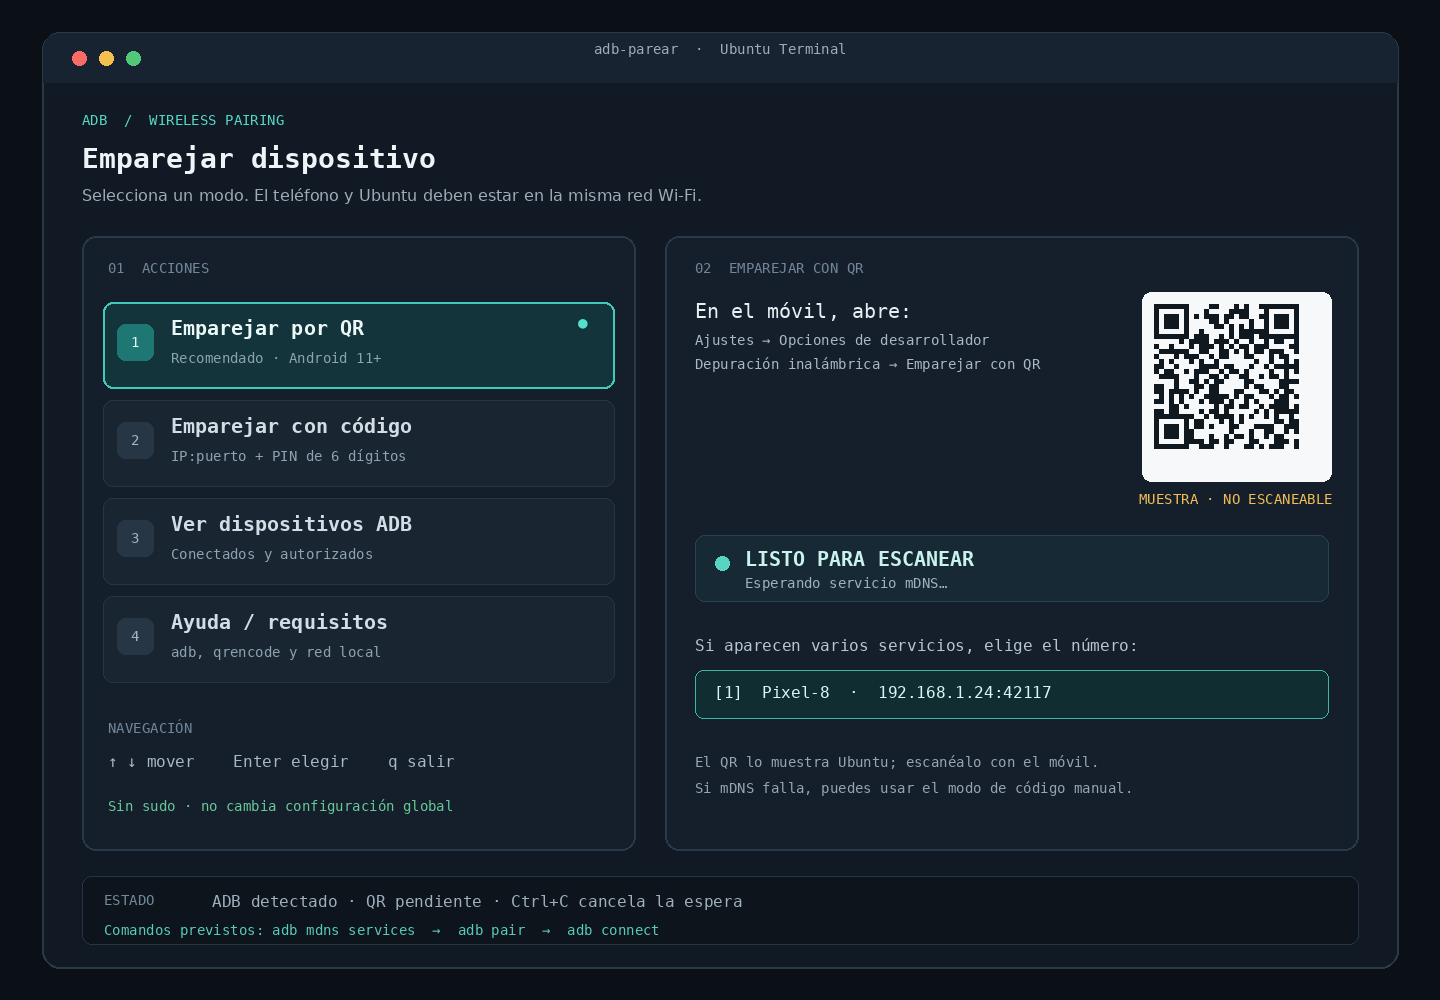
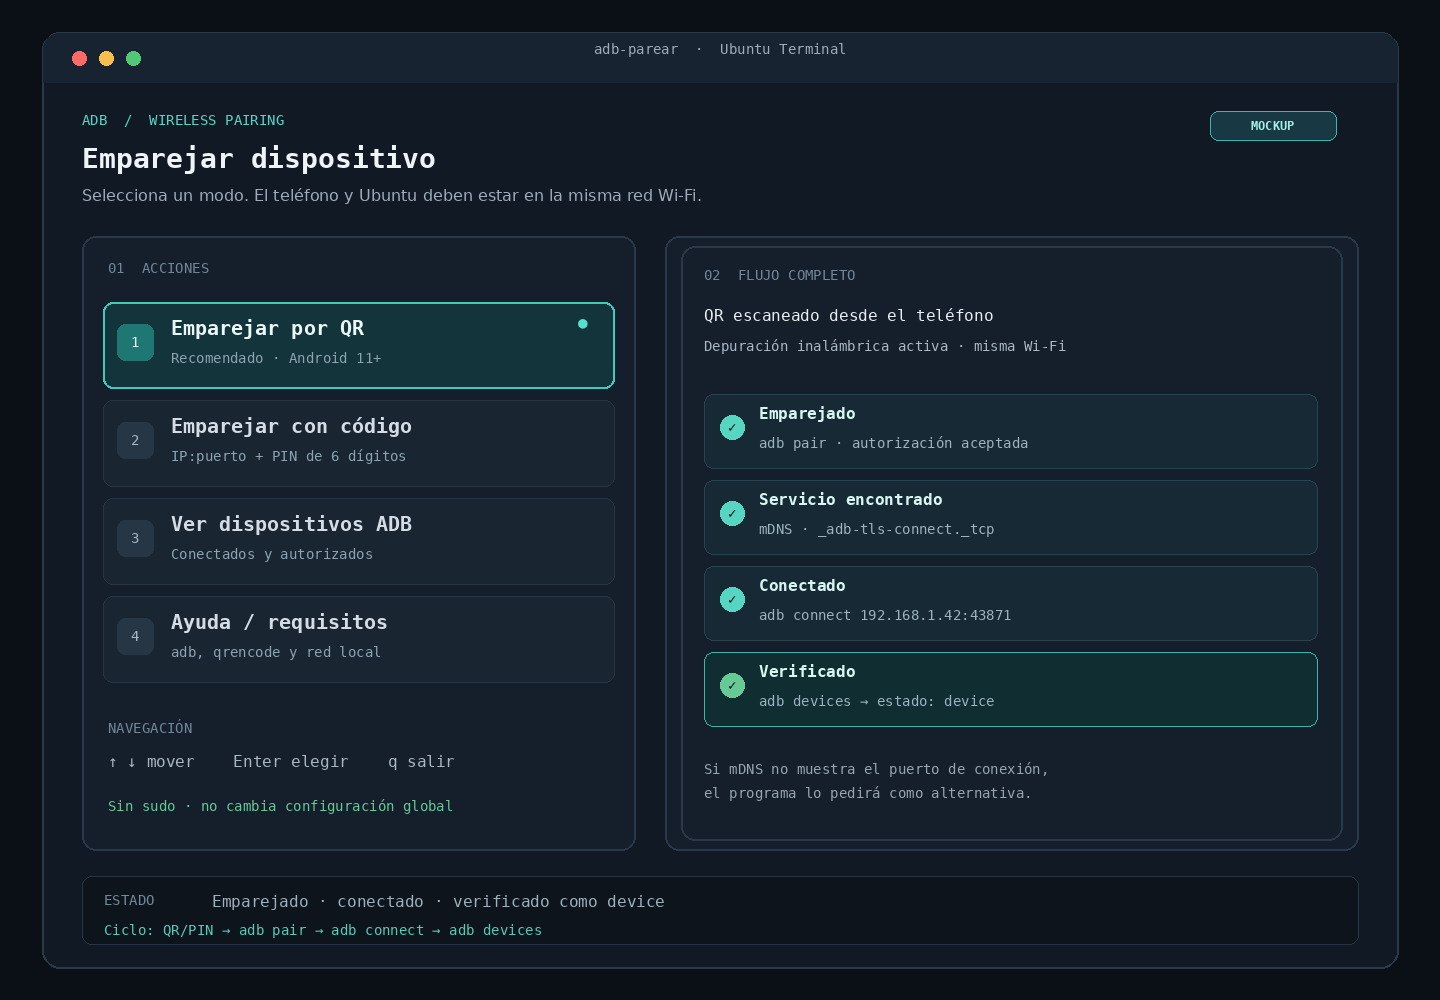
Connect paired ADB devices automatically

diff --git a/README.md b/README.md
@@ -1,6 +1,6 @@
 # adb-parear
 
-Una utilidad Bash para emparejar un teléfono Android con ADB inalámbrico desde Ubuntu. Incluye un menú interactivo, emparejamiento por QR, modo de código manual y listado de dispositivos ADB.
+Una utilidad Bash para emparejar y conectar un teléfono Android por ADB inalámbrico desde Ubuntu. Incluye un menú interactivo, emparejamiento por QR o PIN, conexión automática y verificación en `adb devices`.
 
 ## Requisitos
 
@@ -46,32 +46,45 @@ Comprueba que `~/.local/bin` esté en tu `PATH`. También puedes ejecutar el scr
 
 ```text
 adb-parear                 Menú de selección
-adb-parear --qr            Mostrar el QR y esperar el servicio de emparejamiento
-adb-parear --code          Escribir IP:puerto y luego el PIN que pide adb
+adb-parear --qr            QR → emparejar → conectar → verificar
+adb-parear --code          IP:puerto/PIN → emparejar → conectar → verificar
 adb-parear --list          Listar dispositivos ADB
-adb-parear --timeout 180   Esperar hasta 180 segundos en modo QR
+adb-parear --timeout 180   Esperar hasta 180 segundos por el servicio QR
 adb-parear --help          Mostrar ayuda
 ```
 
 En el menú, usa las flechas ↑/↓ y Enter, o elige una opción con las teclas `1`–`5`. `q` cancela/sale. `Ctrl+C` interrumpe una espera.
 
-## Emparejar por QR
+## Flujo completo por QR
 
 1. Ejecuta `adb-parear --qr` o elige **Emparejar por QR** en el menú.
 2. En el teléfono, abre **Opciones de desarrollador → Depuración inalámbrica → Emparejar dispositivo con código QR**.
 3. Escanea con el teléfono el QR que aparece en el terminal de Ubuntu.
-4. El script detecta los servicios de emparejamiento por mDNS. Si encuentra varios, pregunta cuál teléfono escaneó el QR.
-5. ADB completa el emparejamiento y muestra el estado de dispositivos.
+4. El script detecta el servicio de emparejamiento por mDNS y ejecuta `adb pair`.
+5. Después busca el servicio mDNS de conexión `_adb-tls-connect._tcp`, elige el dispositivo si encuentra varios y ejecuta `adb connect`.
+6. Por último, consulta `adb devices -l`. Solo informa que ADB está listo si la dirección conectada aparece con el estado `device`.
 
-El QR contiene un identificador temporal de servicio y un código de emparejamiento de corta duración. La dirección IP y el puerto se descubren mediante mDNS en la red local; el script no consulta ni almacena la contraseña Wi-Fi.
+El QR contiene un identificador temporal de servicio y un código de emparejamiento de corta duración. La dirección de conexión se descubre mediante mDNS en la red local; el script no consulta ni almacena la contraseña Wi-Fi.
 
-## Emparejar con PIN
+## Flujo completo con PIN
 
-Elige **Emparejar con código** o ejecuta `adb-parear --code`. Cuando el teléfono muestre **Emparejar con código de emparejamiento**, introduce la dirección `IP:puerto` y escribe el PIN cuando ADB lo solicite en el terminal.
+Elige **Emparejar con código** o ejecuta `adb-parear --code`. Introduce el `IP:puerto` que el teléfono muestra en **Emparejar con código de emparejamiento** y escribe el PIN cuando ADB lo solicite. Tras el emparejamiento, el script también busca el servicio de conexión, ejecuta `adb connect` y verifica el estado `device`.
+
+El puerto de emparejamiento y el puerto de conexión son distintos. Si mDNS no anuncia el servicio de conexión en 15 segundos, el programa solicitará el `IP:puerto` de conexión que aparece en la pantalla principal de **Depuración inalámbrica**. No introduzcas ahí el puerto de emparejamiento.
+
+Para inspeccionar el servicio y conectarte manualmente, usa el endpoint publicado para `_adb-tls-connect._tcp` (no el de `_adb-tls-pairing._tcp`):
+
+```bash
+adb mdns services
+adb connect IP:PUERTO_DE_CONEXION
+adb devices -l
+```
+
+La conexión está lista cuando el dispositivo aparece en `adb devices -l` con estado `device`.
 
 ## Seguridad y alcance
 
-El script envía la solicitud de emparejamiento a la dirección local detectada o introducida. La autorización se completa con el QR o PIN y la acción en el teléfono. No cambia el firewall, no inicia servicios del sistema, no instala paquetes, no eleva privilegios y no guarda el código temporal. El menú y los argumentos no sustituyen la autorización que Android exige para ADB.
+El script envía solicitudes ADB únicamente a la dirección local descubierta o introducida. La autorización se completa con el QR o PIN y la acción en el teléfono. No cambia el firewall, no inicia servicios del sistema, no instala paquetes, no eleva privilegios y no guarda el código temporal. El menú y los argumentos no sustituyen la autorización que Android exige para ADB.
 
 Emparejar autoriza el equipo Ubuntu para depuración ADB según las reglas de confianza de Android. Para retirar esa autorización, abre **Depuración inalámbrica → Dispositivos emparejados** en el teléfono y olvida esta estación de trabajo, o revoca las autorizaciones de depuración.
 
@@ -80,8 +93,9 @@ Emparejar autoriza el equipo Ubuntu para depuración ADB según las reglas de co
 - **No aparece `adb`:** instala Android SDK Platform-Tools y verifica `adb version`.
 - **No aparece `qrencode`:** instala el paquete `qrencode` o utiliza el modo `--code`.
 - **El teléfono no detecta el QR:** aumenta el tamaño de la terminal y comprueba que los caracteres UTF-8 se vean correctamente.
-- **Se agota el tiempo de espera:** confirma que el QR fue escaneado, que la depuración inalámbrica sigue activa y que ambos equipos están en la misma red. Las redes de invitados pueden bloquear mDNS mediante aislamiento de clientes; prueba una red privada compartida o usa el modo de código.
-- **Emparejado pero no conectado:** el emparejamiento y la conexión ADB son estados separados. Consulta `adb devices -l`; si tu versión/flujo de Android no conecta automáticamente, usa la dirección de conexión que muestra **Depuración inalámbrica** con `adb connect IP:puerto`.
+- **No aparece mDNS:** confirma que ambos equipos estén en la misma red y que la red no aísle los clientes. Si no aparece el servicio de conexión, escribe el puerto de conexión que muestra **Depuración inalámbrica** cuando el programa lo solicite.
+- **`adb connect` devuelve `Connection refused`:** comprueba que no estás reutilizando el puerto del pairing. Emparejar puede devolver éxito y aun así requerir un puerto de conexión distinto.
+- **No aparece estado `device`:** el script no considera la conexión lista; revisa la pantalla del móvil y vuelve a probar con `adb-parear`.
 
 ## Licencia
 
